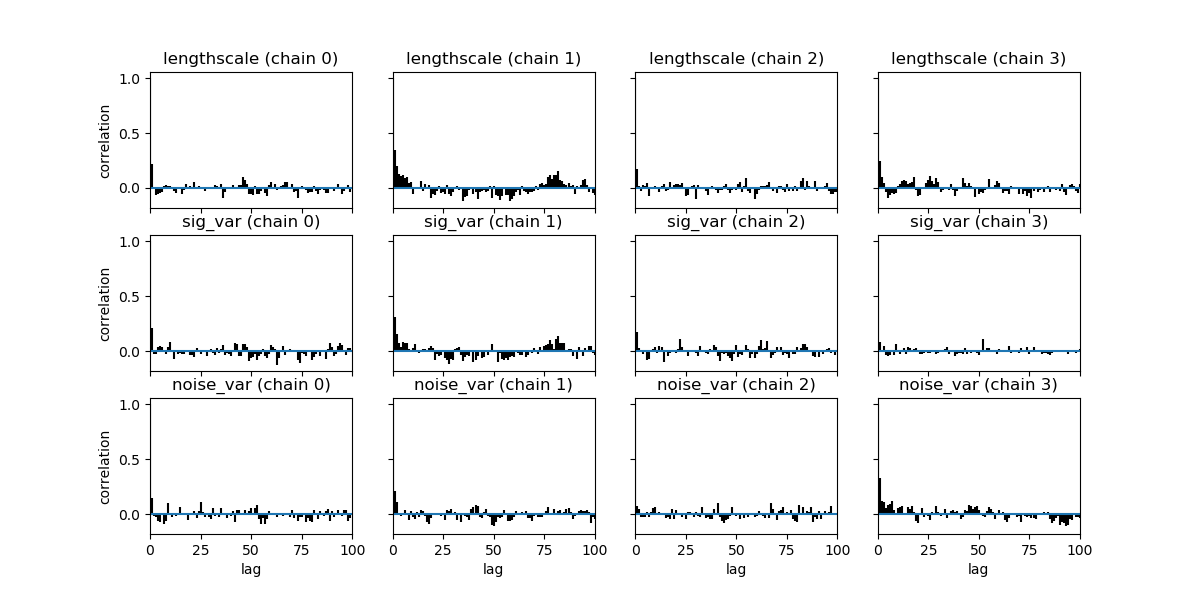
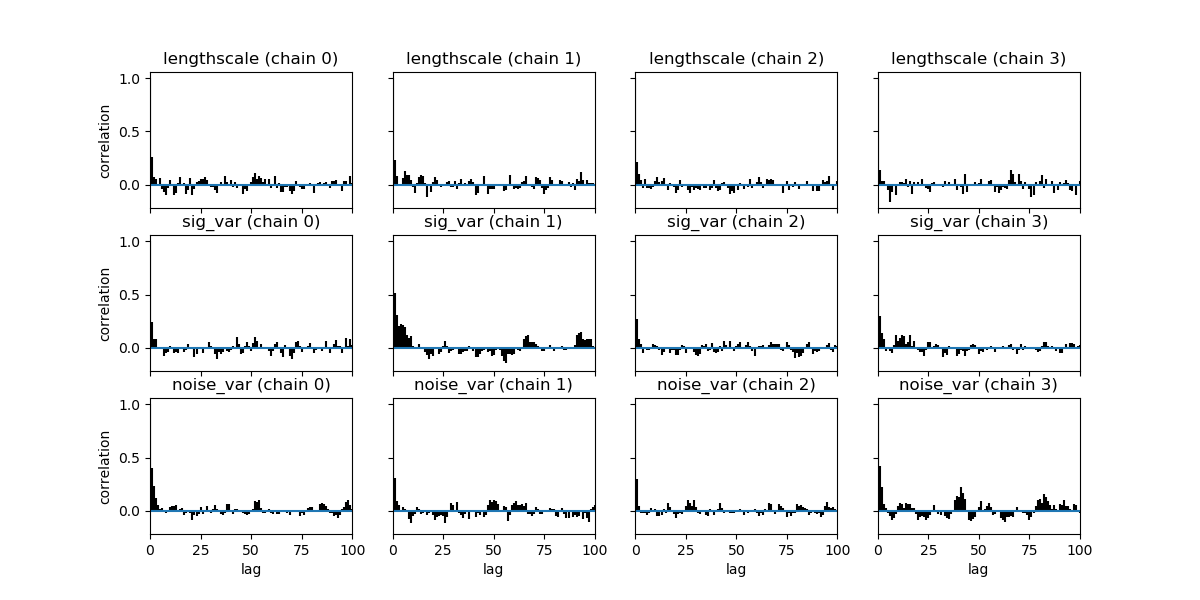
edits

diff --git a/GP/Hyperparameter Integration/gp_hyp_analysis.py b/GP/Hyperparameter Integration/gp_hyp_analysis.py
@@ -44,7 +44,7 @@ def generate_gp_training(X_all, f_all, n_train, noise_var, uniform):
     X_star = X_all[test_index]
     f_star = f_all[test_index]
     y = f + np.random.normal(0, scale=np.sqrt(noise_var), size=n_train)
-    return X, y, X_star, f_star, index
+    return X, y, X_star, f_star, train_index
 
 #---------------GP Framework----------------------------------------------
     
@@ -85,25 +85,24 @@ def get_kernel_hyp_string(kernel_type, hyper_params):
         sig_var = hyper_params[0]
         lengthscale = hyper_params[1]
         noise_var = hyper_params[2]
-        return r'$\{\sigma_{f}^{2}$: ' + str(sig_var) + r',$\gamma$: ' + str(lengthscale) + r',$\sigma_{n}^{2}$: ' + str(noise_var) + '}'
+        return r'$\{\sigma_{f}^{2}$: ' + str(sig_var) + r', $\gamma$: ' + str(lengthscale) + r', $\sigma_{n}^{2}$: ' + str(noise_var) + '}'
 
     elif kernel_type == 'PER':
         
         period = hyper_params[0]
         lengthscale = hyper_params[1]
-        return r'$\{p$: ' + str(period) + r',$\gamma$: ' + str(lengthscale) + '}'
+        return r'$\{p$: ' + str(period) + r', $\gamma$: ' + str(lengthscale) + '}'
         
-    elif kernel_type == 'MATERN':
+    elif kernel_type == 'MATERN32':
         
         lengthscale = hyper_params[0]
-        return r',$\gamma$: ' + str(lengthscale)  + '}'
-        
+        return r'$\gamma$: ' + str(lengthscale)  + '}'
         
     elif kernel_type == 'RQ':
         
         alpha = hyper_params[0]
         lengthscale = hyper_params[0]
-        return r'$\{\alpha$: ' + str(alpha) + r',$\gamma$: ' + str(lengthscale) + '}'
+        return r'$\{\alpha$: ' + str(alpha) + r', $\gamma$: ' + str(lengthscale) + '}'
     
 
 def get_kernel_matrix_blocks(cov, X, X_star, n_train, noise_var):
@@ -133,21 +132,21 @@ def posterior_predictive_samples(post_mean, post_cov):
 
 def rmse(post_mean, f_star):
     
-    return np.round(np.sqrt(np.mean(np.square(post_mean - f_star))),2)
+    return np.round(np.sqrt(np.mean(np.square(post_mean - f_star))),3)
 
 def log_predictive_density(predictive_density):
 
-      return np.round(np.sum(np.log(predictive_density)), 2)
+      return np.round(np.sum(np.log(predictive_density)), 3)
 
 #-------------Plotting----------------------------------------------------
 
 def plot_noisy_data(X, y, X_star, f_star, title):
 
-    fig = plt.figure(figsize=(12,5))
-    ax = fig.gca()
-    ax.plot(X_star, f_star, "dodgerblue", lw=3, label="True f")
-    ax.plot(X, y, 'ok', ms=3, alpha=0.5, label="Data")
-    ax.set_xlabel("X"); ax.set_ylabel("The true f(x)") 
+    plt.figure()
+    plt.plot(X_star, f_star, "dodgerblue", lw=3, label="True f")
+    plt.plot(X, y, 'ok', ms=3, alpha=0.5, label="Data")
+    plt.set_xlabel("X"); 
+    plt.set_ylabel("The true f(x)") 
     plt.legend()
     plt.title(title, fontsize='x-small')
 
@@ -182,7 +181,7 @@ def plot_gp(X_star, f_star, X, y, post_mean, post_std, post_samples, title):
     plt.title(title, fontsize='x-small')
     
     
-def plot_lml_surface_3way(gpr, sig_var):
+def plot_lml_surface_3way(gpr, sig_var, lengthscale, noise_var):
     
     plt.figure(figsize=(15,6))
     plt.subplot(131)
@@ -242,12 +241,26 @@ def plot_lml_surface_3way(gpr, sig_var):
     plt.xscale("log")
     plt.yscale("log")
     plt.xlabel("Noise-level")
-    plt.ylabel("Signal-Var")
-    
+    plt.ylabel("Signal-Var")    
     plt.suptitle('LML Surface ' + '\n' + str(gpr.kernel_), fontsize='small')
+    
+def persist_datasets(X,X_star, f, f_star, index):
+      
+     X.tocsv('X.csv', sep=',')
+     X_star.tocsv('X_star.csv', sep=',')
+     y.tocsv('y.csv', sep=',')
+     f_star.tocsv('f_star.csv', sep=',')
+
+def load_datasets():
+      
+      X = np.asarray(pd.read_csv('X.csv', header=None))
+      y = np.asarray(pd.read_csv('y.csv', header=None))
+      X_star = np.asarray(pd.read_csv('X_star.csv', header=None))
+      f_star = np.asarray(pd.read_csv('f_star.csv', header=None))
+      return X.reshape(len(X[0]),1), y.reshape(len(y[0]),), X_star.reshape(len(X_star[0]),1), f_star.reshape(len(f_star[0]),)
+      
 
 if __name__ == "__main__":
-
 
     # If pre-loading 
 
@@ -256,7 +269,7 @@ if __name__ == "__main__":
     
     # Data
 
-    n_train = 20
+    n_train = 10
     n_star = 200
     
     xmin = 0
@@ -270,18 +283,19 @@ if __name__ == "__main__":
     
     # Kernel Hyperparameters 
     
-    sig_var = 5.0
-    lengthscale = 1.0
-    noise_var = 0.2
-    hyp = [sig_var, lengthscale, noise_var]
-    cov = get_kernel('SE', [sig_var, lengthscale])
-    hyp_string = get_kernel_hyp_string('SE', [sig_var, lengthscale, noise_var])
+    sig_var_true = 5.0
+    lengthscale_true = 1.5
+    noise_var_true = 1.0
+    hyp = [sig_var_true, lengthscale_true, noise_var_true]
+    cov = get_kernel('SE', [sig_var_true, lengthscale_true])
+    hyp_string = get_kernel_hyp_string('SE', [sig_var_true, lengthscale_true, noise_var_true])
     
     f_all = generate_gp_latent(X_all, mean, cov)
     
-    uniform = True
-    X, y, X_star, f_star, index = generate_gp_training(X_all, f_all, n_train, noise_var, uniform)
-    K, K_s, K_ss, K_noise, K_inv = get_kernel_matrix_blocks(cov, X, X_star, n_train, noise_var)
+    uniform = False
+    X, y, X_star, f_star, train_index = generate_gp_training(X_all, f_all, n_train, noise_var_true, uniform)
+    #X, y, X_star, f_star = load_datasets()
+    K, K_s, K_ss, K_noise, K_inv = get_kernel_matrix_blocks(cov, X, X_star, n_train, noise_var_true)
     
     # Add very slight perturbation to the covariance matrix diagonal to improve numerical stability
     
@@ -332,16 +346,16 @@ if __name__ == "__main__":
     plot_gp(X_star, f_star, X, y, post_mean, post_std, [], title)
     #plot_kernel_matrix(post_cov,'')
     
-    plot_lml_surface_3way(gpr, sig_var)
+    plot_lml_surface_3way(gpr, sig_var_true, lengthscale_true, noise_var_true)
 
     ml_deltas = np.round(np.exp(gpr.kernel_.theta), 3)
     ml_deltas_dict = {'lengthscale': ml_deltas[1], 'noise_var': ml_deltas[2], 'sig_var': ml_deltas[0]}
 
-    #---------------------------------------------------------------------
-    
-    # Vanilla GP - pymc3
-    
-    #---------------------------------------------------------------------
+      #---------------------------------------------------------------------
+          
+      # Vanilla GP - pymc3
+          
+      #---------------------------------------------------------------------
 
     with pm.Model() as model:
         
@@ -374,11 +388,11 @@ pred_samples = posterior_predictive_samples(post_pred_mean, post_pred_cov_nf)
 title = 'GPR' + '\n' + str(gpr.kernel_) + '\n' + 'RMSE: ' + str(rmse_) + '\n' + 'LPD: ' + str(lpd_) 
 plot_gp(X_star, f_star, X, y, post_pred_mean, post_pred_std, pred_samples,title)
     
-#-----------------------------------------------------
-
-#       Hybrid Monte Carlo
-    
-#-----------------------------------------------------
+      #-----------------------------------------------------
+      
+      #       Hybrid Monte Carlo
+          
+      #-----------------------------------------------------
 
   with pm.Model() as hmc_gp_model:
         
@@ -416,9 +430,9 @@ traces[2][0].axvline(x=hyp_map[0], color='b', alpha=0.5, label='HMC ' + str(hyp_
 traces[0][0].axvline(x=ml_deltas[1], color='r',alpha=0.5, label='ML ' + str(ml_deltas[1]))
 traces[1][0].axvline(x=ml_deltas[2], color='r', alpha=0.5, label='ML ' + str(ml_deltas[2]))
 traces[2][0].axvline(x=ml_deltas[0], color='r', alpha=0.5, label='ML ' + str(ml_deltas[0]))
-traces[0][0].axvline(x=1.0, color='g',alpha=0.5, label='True ' + str(1.0))
-traces[1][0].axvline(x=0.2, color='g', alpha=0.5, label= 'True ' + str(0.2))
-traces[2][0].axvline(x=5.0, color='g', alpha=0.5, label='True ' + str(5.0))
+traces[0][0].axvline(x=lengthscale_true, color='g',alpha=0.5, label='True ' + str(lengthscale_true))
+traces[1][0].axvline(x=noise_var_true, color='g', alpha=0.5, label= 'True ' + str(noise_var_true))
+traces[2][0].axvline(x=sig_var_true, color='g', alpha=0.5, label='True ' + str(sig_var_true))
 traces[0][1].axhline(y=hyp_map[1], color='b', alpha=0.5)
 traces[1][1].axhline(y=hyp_map[2], color='b', alpha=0.5)
 traces[2][1].axhline(y=hyp_map[0], color='b', alpha=0.5)
@@ -436,7 +450,7 @@ for j, k in [(0,0), (1,0), (2,0)]:
 prefix = '/home/vidhi/Desktop/Workspace/CoreML/GP/Hyperparameter Integration/'
 summary_df = pm.summary(trace)
 summary_df['Acc Rate'] = np.mean(trace.get_sampler_stats('mean_tree_accept'))
-np.round(summary_df,3).to_csv(prefix + 'trace_summary_se_unif.csv')
+np.round(summary_df,3).to_csv(prefix + 'trace_summary_se_unif_med_noise.csv')
 pm.autocorrplot(trace)
 
 # Compute posterior predictive mean and covariance - careful (not so obvious)
@@ -476,79 +490,115 @@ def get_joint_value_from_trace(trace, varnames, i):
 
 def get_post_mcmc_mean_cov(trace_df, X, X_star, varnames, n_train, test_size):
       
-      #sum_means = np.zeros(test_size)
-      sum_means = []
-      #sum_cov = np.zeros((test_size, test_size))
-      sum_cov = []
-      #sum_mean_sq = np.zeros((test_size, test_size))
-      for i in range(0,len(trace_df)):
+      list_means = []
+      list_cov = []
+      list_mean_sq = []
+      for i in range(0,len(trace_df), 10):
             print(i)
             theta = get_joint_value_from_trace(trace_df, varnames, i) 
             cov = get_kernel('SE', [theta[0], theta[1]])
             K, K_s, K_ss, K_noise, K_inv = get_kernel_matrix_blocks(cov, X, X_star, n_train, theta[2])
-            print('Done at ' + str(i))
             mean_i = get_post_mean_theta(theta, K, K_s, K_ss, K_noise, K_inv)
             cov_i = get_post_cov_theta(theta, K_s, K_ss, K_inv)
-            print('Done here too')
-            sum_means.append(mean_i)
-            sum_cov.append(cov_i)
-            #sum_mean_sq += np.outer(mean_i.eval(), mean_i.eval())
-            #sum_means += mean_i.eval()
-            #sum_cov += cov_i.eval()
-            print('Done adding too')
-      post_mean_trace = sum_means/len(trace_df)
-      post_cov_mean =  sum_cov/len(trace_df) + sum_mean_sq/len(trace_df)  - np.outer(post_mean_trace, post_mean_trace)
-      return post_mean_trace, post_cov_mean
+            list_means.append(mean_i)
+            list_cov.append(cov_i)
+            list_mean_sq.append(tt.outer(mean_i, mean_i))
+      post_mean_trace = tt.mean(list_means, axis=0)
+      post_mean_trace = post_mean_trace.eval()
+      print('Mean evaluated')
+      post_cov_trace =  tt.mean(list_cov, axis=0) 
+      post_cov_trace = post_cov_trace.eval() 
+      print('Cov evaluated')
+      outer_means = tt.mean(list_mean_sq, axis=0)
+      outer_means = outer_means.eval()
+      print('SSQ evaluated')
+      post_cov_trace = post_cov_trace + outer_means - np.outer(post_mean_trace, post_mean_trace)
+      return post_mean_trace, post_cov_trace
      
 varnames = ['sig_var', 'lengthscale','noise_var']
 theta = get_trace_means(trace_df, varnames=['sig_var', 'lengthscale','noise_var'])
 
 test_size=180
 trace_df = get_combined_trace(trace)
-post_mean_trace, post_cov_mean = get_post_mcmc_mean_cov(trace_df, X, X_star, varnames, n_train, test_size)
-post_s_std = np.sqrt(np.diag(post_cov_mean))
+post_mean_trace, post_cov_trace = get_post_mcmc_mean_cov(trace_df, X, X_star, varnames, n_train, test_size)
+post_std_trace = np.sqrt(np.diag(post_cov_trace))
+
+# MAP Case
+
+K, K_s, K_ss, K_noise, K_inv = get_kernel_matrix_blocks(cov, X, X_star, n_train, theta[2])
+post_mean_map = get_post_mean_theta(theta, K, K_s, K_ss, K_noise, K_inv).eval()
+post_cov_map = get_post_cov_theta(theta, K_s, K_ss, K_inv).eval()
+post_std_map = np.sqrt(np.diag(post_cov_map))
+
+# Fit metrics - All 3 cases : ML, HMC, MAP
+
+rmse_hmc = rmse(f_star, post_mean_trace)
+rmse_map = rmse(f_star, post_mean_map)
+rmse_ml = rmse(f_star, post_pred_mean)
+
+lpd_hmc = log_predictive_density(st.multivariate_normal.pdf(f_star, post_mean_trace, post_cov_trace, allow_singular=True))
+lpd_map = log_predictive_density(st.multivariate_normal.pdf(f_star, post_mean_map, post_cov_map, allow_singular=True))
+lpd_ml = log_predictive_density(st.multivariate_normal.pdf(f_star, post_pred_mean, post_pred_cov, allow_singular=True))
+
+# Type II vs. HMC Report 
+
+plt.figure(figsize=(12,7))
 
 # Plot fit with mean and variance ML case
 
-plt.figure()
-plt.plot(X, y, 'ok', ms=3, alpha=0.5, label="Data")
-plt.plot(X_star, f_star, "dodgerblue", lw=1.0, label="True f",alpha=0.7);
-plt.plot(X_star, post_pred_mean, color='r', label=r'$\mu_{*}^{II ML}$')
-plt.legend(fontsize='x-small')
+plt.subplot(221)
+post_samples = posterior_predictive_samples(post_pred_mean, post_pred_cov_nf)
+plt.plot(X_star, post_samples.T, color='grey', alpha=0.05)
 plt.fill_between(np.ravel(X_star), post_pred_mean - 2*post_pred_std, 
                      post_pred_mean + 2*post_pred_std, alpha=0.2, color='r',
                      label=r'$2\sigma_{*}^{2(II ML)}$')
-post_samples = posterior_predictive_samples(post_pred_mean, post_pred_cov_nf)
-plt.plot(X_star, post_samples.T, color='grey', alpha=0.2)
+plt.plot(X_star, f_star, "dodgerblue", lw=1.0, label="True f",alpha=1);
+plt.plot(X_star, post_pred_mean, color='r', label=r'$\mu_{*}^{II ML}$')
+plt.plot(X, y, 'ok', ms=3, alpha=0.5)
+plt.legend(fontsize='small')
 plt.title('Type II ML' + '\n' 
-          'True values: ' + get_kernel_hyp_string('SE', [5.0, 1.0, 1.0])  + '\n' +
-          'ML: ' + get_kernel_hyp_string('SE', np.round(ml_deltas, 3))
-          , fontsize='x-small')
-plt.legend(fontsize='x-small')
+          'True: ' + get_kernel_hyp_string('SE', [sig_var_true, lengthscale_true, noise_var_true])  + '\n' +
+          'ML: ' + get_kernel_hyp_string('SE', np.round(ml_deltas, 3)), fontsize='medium')
+plt.ylim(-9,9)
 
 # Plot fit with mean and variance HMC case
 
-plt.figure()
-plt.plot(X_star, post_mean_trace, color='b', label=r'$\mu_{*}^{HMC}$')
-plt.plot(X, y, 'ok', ms=3, alpha=0.5, label="Data")
-plt.plot(X_star, f_star, "dodgerblue", lw=1.0, label="True f",alpha=0.7);
-plt.fill_between(np.ravel(X_star), (post_mean_trace - 2*post_s_std).reshape(test_size,), 
-                     (post_mean_trace + 2*post_s_std).reshape(test_size,), alpha=0.2, color='b',
+plt.subplot(222)
+post_samples = posterior_predictive_samples(post_mean_trace, post_cov_trace)
+plt.plot(X_star, post_samples.T, color='grey', alpha=0.1)
+plt.fill_between(np.ravel(X_star), (post_mean_trace - 2*post_std_trace).reshape(test_size,), 
+                     (post_mean_trace + 2*post_std_trace).reshape(test_size,), alpha=0.2, color='b',
                      label=r'$2\sigma_{*}^{2 (HMC)}$')
+plt.plot(X_star, f_star, "dodgerblue", lw=1.0, label="True f",alpha=1);
+plt.plot(X_star, post_mean_trace, color='b', label=r'$\mu_{*}^{HMC}$')
+plt.plot(X, y, 'ok', ms=3, alpha=0.5)
 plt.legend(fontsize='x-small')
 plt.title('HMC' + '\n' 
-          'True values: ' + get_kernel_hyp_string('SE', [5.0, 1.0, 1.0])  + '\n' +
+          'True: ' + get_kernel_hyp_string('SE', [sig_var_true, lengthscale_true, noise_var_true])  + '\n' +
           'HMC: ' + get_kernel_hyp_string('SE', np.round(theta, 3))
-          , fontsize='x-small')
-post_samples = posterior_predictive_samples(post_mean_trace, post_cov_mean)
-plt.plot(X_star, post_samples.T, color='grey', alpha=0.2)
+          , fontsize='medium')
+plt.ylim(-9,9)
+
+# Plot overlays 
+
+plt.subplot(212)
+plt.fill_between(np.ravel(X_star), (post_mean_trace - 2*post_std_trace).reshape(test_size,), 
+                     (post_mean_trace + 2*post_std_trace).reshape(test_size,), alpha=0.15, color='b',
+                     label=r'HMC')
+plt.fill_between(np.ravel(X_star), post_pred_mean - 2*post_pred_std, 
+                     post_pred_mean + 2*post_pred_std, alpha=0.15, color='r',
+                     label=r'ML')
+plt.plot(X_star, f_star, "dodgerblue", lw=1.0, label="True f",alpha=1);
+plt.plot(X_star, post_pred_mean, color='r')
+plt.plot(X_star, post_mean_trace, color='b')
+plt.plot(X, y, 'ok', ms=3, alpha=0.5)
+plt.title('Type II ML - ' + 'RMSE: ' + str(rmse_ml) + '  LPD: ' + str(lpd_ml) + '\n' + 
+          'HMC        - ' + 'RMSE: ' + str(rmse_hmc) + '  LPD: ' + str(lpd_hmc), fontsize='small')
+plt.legend(fontsize='x-small')
+plt.ylim(-9,9)
+
 
 # Plot fit with mean and variance MAP case
-
-K, K_s, K_ss, K_noise, K_inv = get_kernel_matrix_blocks(cov, X, X_star, n_train, theta[2])
-post_mean_map = get_post_mean_theta(theta, K, K_s, K_ss, K_noise, K_inv)
-post_cov_map = get_post_cov_theta(theta, K_s, K_ss, K_inv)
-post_std_map = np.sqrt(np.diag(post_cov_map.eval()))
 
 plt.plot(X_star, post_mean_map, color='g', label=r'$\mu_{*}^{MAP}$')
 plt.fill_between(np.ravel(X_star), (post_mean_map - 2*post_std_map).reshape(test_size,), 
@@ -556,14 +606,6 @@ plt.fill_between(np.ravel(X_star), (post_mean_map - 2*post_std_map).reshape(test
                      label=r'$2\sigma_{*}^{2 (MAP)}$')
 
 
-
-
-# Fit metrics
-
-rmse_mcmc = rmse(f_star, post_mean_trace)
-rmse_map = rmse(f_star, post_mean_trace)
-rmse_ml = rmse(f_star, post_pred_mean)
-lpd_ = log_predictive_density(st.multivariate_normal.pdf(f_star, post_mean_trace, ))
 
 
 
